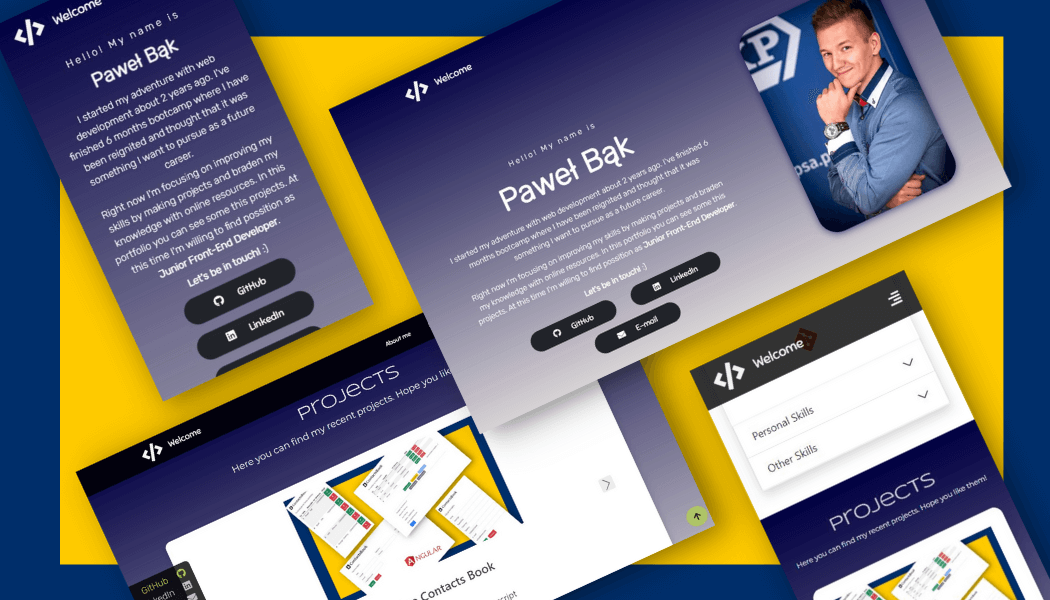
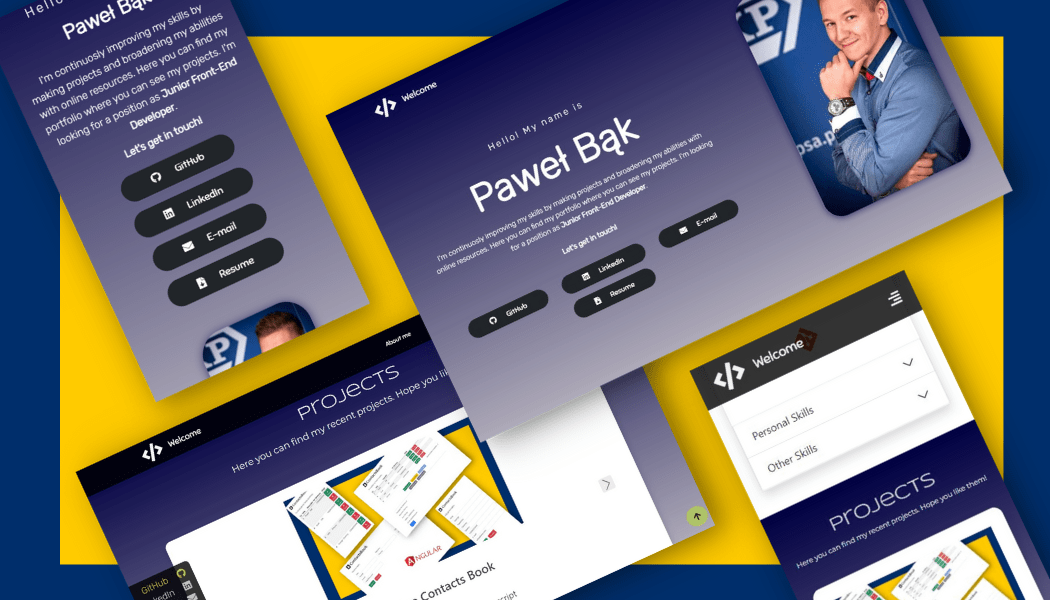
styling changes, normalize carousel slides high

Changed region(s): [[0.0, 0.0, 0.9752, 0.75], [0.5181, 0.0, 0.5486, 0.03], [0.4571, 0.03, 0.4876, 0.06]]

diff --git a/public/index.html b/public/index.html
@@ -137,12 +137,13 @@
         >
       <i class="fas fa-arrow-up"></i>
       </button>
+      <!-- First Section -->
       <section id="skills" class="section-2 container-fluid text-center">
         <div class="section_header text-center">
           <h1 class="title"data-aos="flip-right">Skills</h1>
           <p>This is what you can expect about my skills!</p>
         </div>
-        <div class="accordion container-fluid text-center col-md-10  " id="accordion">
+        <div class="accordion container-fluid text-center col-md-10" id="accordion">
           <div class="accordion-item shadow">
             <h2 class="accordion-header">
               <button class="accordion-button" type="button" data-bs-toggle="collapse" data-bs-target="#collapseOne" aria-expanded="true" aria-controls="collapseOne">
@@ -152,12 +153,13 @@
             <div id="collapseOne" class="accordion-collapse collapse show" aria-labelledby="headingOne" data-bs-parent="#accordion">
               <div class="accordion-body container-fluid text-center">
                   <div
-                    class=" d-flex flex-md-row flex-wrap justify-content-around"
+                    class="d-flex flex-md-row flex-wrap justify-content-around my-4"
                   >
                     <div class="skills-item">
                       <h5>HTML5</h5>
                       <img src="https://img.icons8.com/color/48/000000/html-5--v1.png"data-aos="flip-right" alt="html icon"/>
                     </div>
+                    
                     <div class="skills-item">
                       <h5>CSS3</h5>
                       <img src="https://img.icons8.com/color/48/000000/css3.png"data-aos="flip-right"data-aos-delay="250" alt="css icon"/>
@@ -186,7 +188,10 @@
                       <h5>Git</h5>
                       <img src="https://img.icons8.com/color/48/000000/git.png" data-aos="flip-right"data-aos-delay="250" alt="git icon"/>
                     </div>
-                   
+                    <div class="skills-item">
+                      <h5>JQuery</h5>
+                      <img src="https://img.icons8.com/ios-filled/50/000000/jquery.png" data-aos="flip-right" alt="jquery icon"/>
+                    </div>
                 </div>
               </div>
             </div>
@@ -218,10 +223,7 @@
                       <img src="https://img.icons8.com/fluency/48/000000/consultation.png"/>
                     </div>
                   </div>
-                  <div
-                    class=" d-flex flex-md-row flex-wrap justify-content-around container-personal-skills"
-                  >
-                </div>
+                  
                 </div>
               </div>
             </div>
@@ -234,10 +236,11 @@
               <div id="collapseThree" class="accordion-collapse collapse" aria-labelledby="headingThree" data-bs-parent="#accordion">
                 <div class="accordion-body container-fluid text-start col-11 my-4">
                   <ul class="list-group">
-                    <li class="list-group-item">English - Advanced</li>
-                    <li class="list-group-item">Jira - Basics</li>
-                    <li class="list-group-item">Excel</li>
-                    <li class="list-group-item">Driving Licence</li>
+                    <li class="list-group-item"><img src="https://img.icons8.com/color/48/000000/great-britain-circular.png" class="m-2 ms-0"/>English - Advanced(C1)</li>
+                    <li class="list-group-item"><img src="https://img.icons8.com/color/48/000000/jira.png" class="m-2 ms-0"/>Jira - Basics</li>
+                    <li class="list-group-item"><img src="https://img.icons8.com/color/48/000000/microsoft-excel-2019--v1.png" class="m-2 ms-0"/>Excel</li>
+                    <li class="list-group-item"><img src="https://img.icons8.com/color/48/000000/globe--v1.png" class="m-2 ms-0"/>Geographic Information System (GIS)</li>
+                    <li class="list-group-item"><img src="https://img.icons8.com/fluency/48/000000/car.png" class="m-2 ms-0"/>Driving Licence</li>
                   </ul>
                 </div>
               </div>
@@ -291,7 +294,7 @@
           <!-- First project -->
           <div class="carousel-inner shadow ">
             <div class="carousel-item active">
-              <div class="card d-inline-block w-100">
+              <div class="card d-inline-block w-100 border-0">
                 <div class="card-img-top">
                   <img
                 src="assets/Project_1.png"
@@ -302,16 +305,20 @@
                 <div class="card-body w-100">
                   <h3 class="card-title">Words Game</h3>
                   <p class="card-text fs-5">
-                    HTML / CSS / JavaScript / RegEx
+                    <span class="item">HTML</span>
+                    <span class="item">CSS</span>
+                    <span class="item">JavaScript</span>
+                    <span class="item">RegEx</span>
+                    <span class="item">RWD</span>
                   </p>
                   <div class="row justify-content-center pb-4">
-                    <div class=" col-md-6 col-sm-12 text-md-end my-2 my-md-3">
-                      <a href="https://dajeslowo-wordgame.web.app/" target="_blank" role="button" class="btn btn-outline-success col-md-5 col-sm-10 bg-light text-secondary text-decoration-none"
+                    <div class="col-12 col-md-6 text-md-end my-2 my-md-3">
+                      <a href="https://dajeslowo-wordgame.web.app/" target="_blank" role="button" class="btn"
                         >Live Demo</a
                       >
                     </div>
-                    <div class="col-md-6 col-sm-12 text-md-start my-2 my-md-3">
-                      <a href="https://github.com/bakpawel/Daje-Slowo---Word-s-Game" role="button" target="_blank" class="btn btn-outline-success col-md-5 col-sm-10 bg-light text-secondary text-decoration-none"
+                    <div class="col-12 col-md-6 text-md-start my-2 my-md-3">
+                      <a href="https://github.com/bakpawel/Daje-Slowo---Word-s-Game" role="button" target="_blank" class="btn"
                       >Source Code</a
                     >
                     </div>
@@ -321,7 +328,7 @@
             </div>
             <!-- Second project -->
             <div class="carousel-item ">
-              <div class="card d-inline-block w-100">
+              <div class="card d-inline-block w-100 border-0">
                 <div class="card-img-top">
                   <img
                     src="assets/Project_2.png" 
@@ -332,16 +339,21 @@
                 <div class="card-body">
                   <h3 class="card-title">Online Contacts Book</h3>
                   <p class="card-text fs-5">
-                    HTML / Bootstrap / Angular / Typescript / Firebase
+                    <span class="item">HTML</span>
+                  <span class="item">Bootstrap</span>
+                  <span class="item">Angular</span>
+                  <span class="item">Typescript</span>
+                  <span class="item">Firebase</span>
+                  <span class="item">RWD</span>
                   </p>
                   <div class="row justify-content-center pb-4">
-                    <div class=" col-md-6 col-sm-12 text-md-end my-2 my-md-3">
-                      <a href="https://contact-book-6d19e.firebaseapp.com/" role="button" target="_blank" class="btn btn-outline-success col-md-5 col-sm-10 bg-light text-secondary text-decoration-none"
+                    <div class="col-12 col-md-6 text-md-end my-2 my-md-3">
+                      <a href="https://contact-book-6d19e.firebaseapp.com/" role="button" target="_blank" class="btn"
                         >Live Demo</a
                       >
                     </div>
-                    <div class="col-md-6 col-sm-12 text-md-start my-2 my-md-3">
-                      <a href="https://github.com/bakpawel/app-contacts-book" role="button" target="_blank" class="btn btn-outline-success col-md-5 col-sm-10 bg-light text-secondary text-decoration-none"
+                    <div class="col-12 col-md-6 text-md-start my-2 my-md-3">
+                      <a href="https://github.com/bakpawel/app-contacts-book" role="button" target="_blank" class="btn"
                       >Source Code</a
                     >
                     </div>
@@ -351,7 +363,7 @@
           </div>
           <!-- Third project -->
             <div class="carousel-item ">
-              <div class="card d-inline-block w-100">
+              <div class="card d-inline-block w-100 border-0">
                 <div class="card-img-top">
                   <img
                 src="assets/Project_3.png"
@@ -362,16 +374,20 @@
                 <div class="card-body">
                   <h3 class="card-title">Restaurant Page</h3>
                   <p class="card-text fs-5">
-                    HTML / SCSS / BEM / JQUERY
+                  <span class="item">HTML</span>
+                  <span class="item">SCSS</span>
+                  <span class="item">BEM</span>
+                  <span class="item">JQUERY</span>
+                  <span class="item">RWD</span>
                   </p>
                   <div class="row justify-content-center pb-4">
-                    <div class=" col-md-6 col-sm-12 text-md-end my-2 my-md-3">
-                      <a href="https://italianrestaurantpage.web.app/" target="_blank" role="button" class="btn btn-outline-success col-md-5 col-sm-10 bg-light text-secondary text-decoration-none"
+                    <div class="col-12 col-md-6 text-md-end my-2 my-md-3">
+                      <a href="https://italianrestaurantpage.web.app/" target="_blank" role="button" class="btn"
                         >Live Demo</a
                       >
                     </div>
-                    <div class="col-md-6 col-sm-12 text-md-start my-2 my-md-3">
-                      <a href="https://github.com/bakpawel/restaurantPage" target="_blank" role="button"class="btn btn-outline-success col-md-5 col-sm-10 bg-light text-secondary text-decoration-none"
+                    <div class="col-12 col-md-6 text-md-start my-2 my-md-3">
+                      <a href="https://github.com/bakpawel/restaurantPage" target="_blank" role="button"class="btn"
                       >Source Code</a
                     >
                     </div>
@@ -381,7 +397,7 @@
           </div>
           <!-- Forth project -->
           <div class="carousel-item ">
-            <div class="card d-inline-block w-100" id="forthProject">
+            <div class="card d-inline-block w-100 border-0" id="forthProject">
               <div class="card-img-top">
                 <img
               src="assets/Project_4.png"
@@ -392,15 +408,22 @@
               <div class="card-body">
                 <h3 class="card-title">This Portfolio Page</h3>
                 <p class="card-text fs-5">
-                  HTML / CSS / Bootstrap / JQUERY
+                  <span class="item">HTML</span>
+                  <span class="item">CSS</span>
+                  <span class="item">Bootstrap</span>
+                  <span class="item">JQUERY</span>
+                  <span class="item">RWD</span>
                 </p>
-                <div class="row justify-content-center pb-4">
-                  <div class="col-md-6 col-sm-12 text-md-center my-2 my-md-3">
-                    <a href="https://github.com/bakpawel/portfolio" target="_blank" role="button"class="btn btn-outline-success col-md-5 col-sm-10 bg-light text-secondary text-decoration-none"
-                    >Source Code</a
-                  >
+                <div class="container">
+                  <div class="row justify-content-center pb-4">
+                    <div class="col-12 col-md-6 text-md-center my-2 my-md-3">
+                      <a href="https://github.com/bakpawel/portfolio" target="_blank" role="button"class="btn"
+                        >Source Code</a>
+                    </div>
                   </div>
                 </div>
+                
+                
               </div>
             </div>
         </div>

diff --git a/public/css/style.css b/public/css/style.css
@@ -204,9 +204,21 @@ section {
     margin: 0;
 }
 
-.section_header .cards .card {
-    width: 22rem;
-    margin: 3vmin;
+/* accordion */
+
+.accordion-button{
+    text-transform: uppercase;
+}
+.accordion-button:not(.collapsed){
+    background-color: #ffc928d7;
+    /* border: 5px solid; */
+    color: #000;
+    border-radius: 5px;
+    font-size: 1rem;
+    font-weight: 600;
+}
+.accordion-button:focus{
+    box-shadow: 0 0 0 0.25rem #002079;
 }
 .carousel-inner{
     border-radius: 15px;
@@ -227,11 +239,36 @@ section {
     color: var(--light-black);
 }
 .card .card-text {
-    padding: 2.5rem 3rem 1rem;
+    padding: 1.5rem 3rem 1rem;
     color: var(--light-black);
 }
+.card a{
+    width: 58%;
+    border: 2px solid var(--light-black);
+    border-radius: 15px;
+    color: var(--light-black);
+    font-size: 1rem;
+    font-weight: 600;
+    text-transform: uppercase;
+    transition: .5s;
+}
+.card a:hover{
+    background: var(--hover);
+    border-color: var(--hover);
+    color:rgba(0, 0, 0, .8);
+    transition: .5s;
+}
 
-
+.item{
+    background-color: #ffc107;
+    border-radius: 5px;
+    font-size: 1rem;
+    font-weight: 700;
+    margin: 5px;
+    margin-top: 10px;
+    padding: 3px 8px;
+    text-transform: uppercase;
+}
 
 .sticky{
     position: fixed;
@@ -250,10 +287,11 @@ section {
 }
 
 .skills-item{
-    width: 7rem;
-    height: 7rem;
+    width: 6.5rem;
+    height: 5rem;
+    margin: 0.5rem;
 }
-.skills-personal, .container-personal-skills, .skills-item{
+.skills-personal, .container-personal-skills{
     margin: 1rem;
 }
 

diff --git a/public/src/main.js b/public/src/main.js
@@ -62,3 +62,22 @@ $(document).ready(function () {
     //scroll from top
   });
 });
+function normalizeSlideHeights() {
+  $(".carousel").each(function () {
+    var items = $(".carousel-item", this);
+    // reset the height
+    items.css("height", "auto");
+    // set the height
+    var maxHeight = Math.max.apply(
+      null,
+      items
+        .map(function () {
+          return $(this).outerHeight();
+        })
+        .get()
+    );
+    items.css("height", maxHeight + "px");
+  });
+}
+
+$(window).on("load resize orientationchange", normalizeSlideHeights);

diff --git a/public/css/mobile-style.css b/public/css/mobile-style.css
@@ -24,7 +24,7 @@
     }
 
     .card-img-top>img {
-        width: 100% !important;
+        width: 80% !important;
     }
     .media { 
         left: -10rem;
@@ -62,6 +62,9 @@
     .card .card-text {
         padding: .5rem 2rem 1rem;
         color: var(--light-black);
+    }
+    .card a{
+        width: 80%;
     }
 }
 
